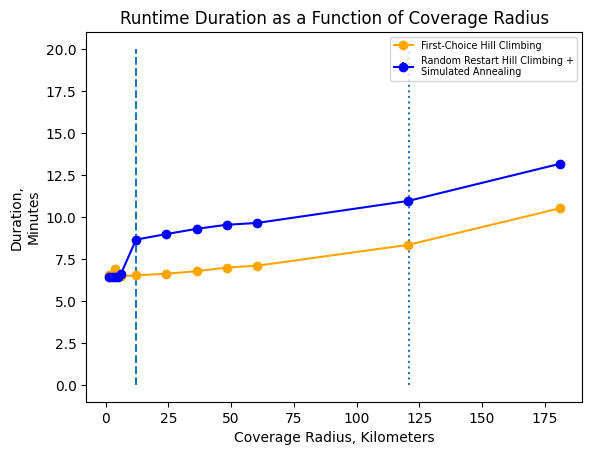
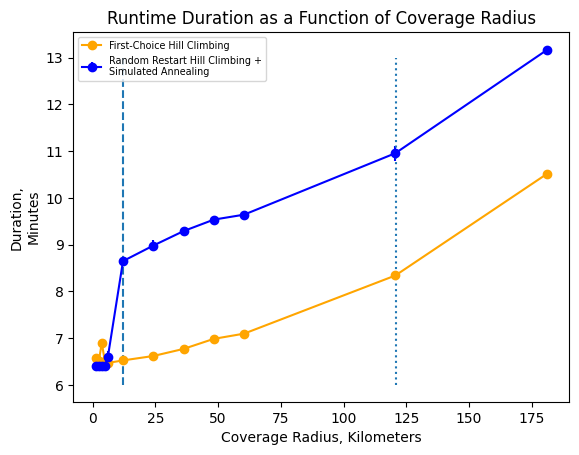
added and modified figures for presentation

diff --git a/src/example_workflow.py b/src/example_workflow.py
@@ -15,7 +15,7 @@ EQUAL_AREA_EPSG = 6933
 BASE_BUFFER = 12065
 TLE_TIME = datetime(2024, 11, 14, 16, 12, 32, 202983)
 PERTURB_DISTANCE_KM = 100
-LOCAL_SEARCH_ITERATIONS = 200
+LOCAL_SEARCH_ITERATIONS = 1
 
 
 # Importing a set of TLEs as the existing satellites
@@ -54,16 +54,27 @@ optimized_gdf, _, _, _ = random_restart_simulated_annealing(
     equal_distance_epsg=EQUAL_DISTANCE_EPSG,
     equal_area_epsg=EQUAL_AREA_EPSG,
     perturbation_distance=PERTURB_DISTANCE_KM,
-    num_iterations=100,
+    num_iterations=LOCAL_SEARCH_ITERATIONS,
 )
 
 # get the optimized candidate satellite positions
 final_gdf = optimized_gdf[optimized_gdf["new_satellite"] == True]
 
 # make and show the before and after plot
-before_after_plot = plot_initial_final_satellites(existing_satellites=existing_gdf,
-                                                  initial_positions=initial_gdf,
-                                                  final_positions=final_gdf,
-                                                  land=land_map,
-                                                  ocean=ocean_map)
+# before_after_plot = plot_initial_final_satellites(existing_satellites=existing_gdf,
+#                                                   initial_positions=initial_gdf,
+#                                                   final_positions=final_gdf,
+#                                                   land=land_map,
+#                                                   ocean=ocean_map)
+
+# plotting for presentation
+fig, ax = plt.subplots()
+land_map.plot(ax=ax, color="#228B22")
+ocean_map.plot(ax=ax, color="#246BCE")
+base_gdf.plot(ax=ax, color="#0E0E10", markersize=1)  # Jet Black
+# the below color is apparently known as International Orange (Aerospace) and used in the aerospace industry
+initial_gdf.plot(ax=ax, color="#FF4F00", markersize=10)
+
+fig.savefig("world_plot.png", bbox_inches='tight')
+
 plt.show()

diff --git a/src/buffer_radius_sensitivity_analysis.py b/src/buffer_radius_sensitivity_analysis.py
@@ -683,7 +683,7 @@ durations_versus_buffer = plot_for_sensitivity_analysis(
     rrsa_parameter=rrsa_average_durations,
     rrsa_error=rrsa_median_absolute_deviation_duration,
     y_label="Duration,\nMinutes",
-    ymax=20,
+    ymax=13,
     title="Runtime Duration as a Function of Coverage Radius",
 )
 total_coverage_versus_buffer = plot_for_sensitivity_analysis(
